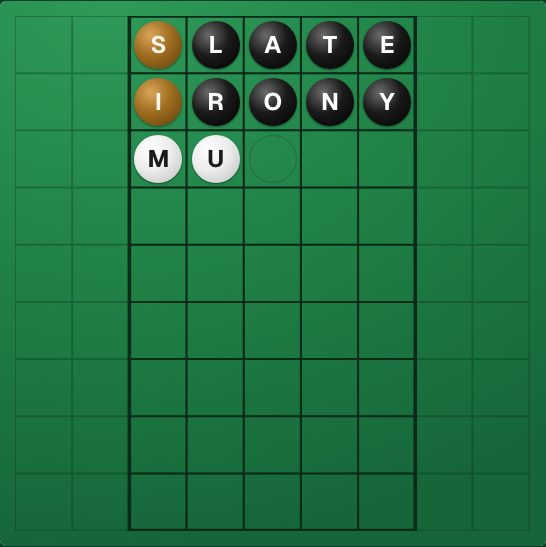
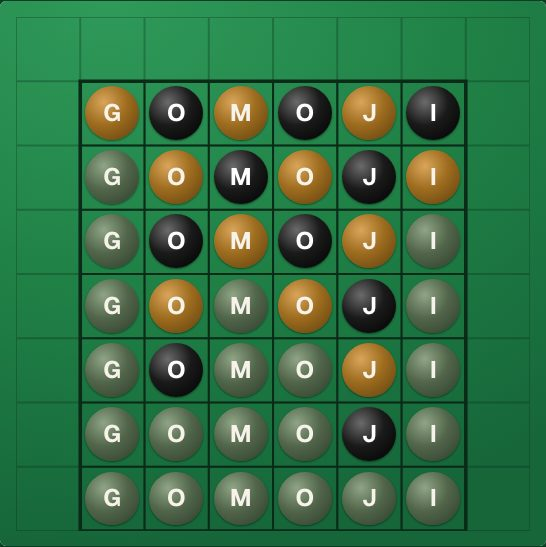
Gomoji's picture says GOMOJI on every row, going green a row at a time

diff --git a/e2e/puzzle-screenshots.spec.ts b/e2e/puzzle-screenshots.spec.ts
@@ -13,6 +13,7 @@ import { decodeMoreOrLess } from "../src/lib/puzzles/moreOrLess/code";
 import { decodeCells } from "../src/lib/puzzles/puzzleCode";
 import { decodeTowers } from "../src/lib/puzzles/towers/code";
 import { BLACK, decodeBlackAndWhite, EMPTY } from "../src/lib/puzzles/blackAndWhite/code";
+import { WORD_STONE_LOOK } from "../src/components/puzzles/puzzles.constants";
 import { answersFor } from "../src/lib/puzzles/gomoji/code";
 import { lettersOf } from "../src/lib/puzzles/kumimoji/grid";
 import { tileWords } from "../src/lib/puzzles/kumimoji/tileWords";
@@ -49,8 +50,9 @@ const SCENES: { kind: PuzzleKind; size: number; level: PuzzleLevel; seed: number
   { kind: "towers", size: 5, level: "medium", seed: 20260924, fill: 3 },
   // An 8×8 Black and White a third filled: printed stones on their shaded cells, and the solver's beside them.
   { kind: "blackAndWhite", size: 8, level: "medium", seed: 20260924, fill: 3 },
-  // A five-letter Gomoji two guesses in, with the word's first letters typed on the third row: the colours are the picture.
-  { kind: "gomoji", size: 5, level: "easy", seed: 20260924, fill: 2 },
+  // Gomoji's own picture says its name on every row, G O M O J I, going green a row at a time until the last is all
+  // green. John, 2026-09-26: "Update the GOMOJI image to say GOMOJI a bunch of times." Played first, then relettered.
+  { kind: "gomoji", size: 6, level: "medium", seed: 20260924, fill: 0 },
   { kind: "gomojiKana", size: 4, level: "easy", seed: 20260925, fill: 2 },
   // Gomoji Mot and Gomoji Wort: the same shape of picture, French's and German's own words.
   { kind: "gomojiMot", size: 5, level: "easy", seed: 20260925, fill: 2 },
@@ -126,9 +128,42 @@ test.describe("puzzle screenshots", () => {
           await cells.nth(row * scene.size + col).click();
           await cells.nth(row * scene.size + col).click();
         }
-      } else if (scene.kind === "gomoji" || scene.kind === "gomojiMot") {
+      } else if (scene.kind === "gomoji") {
+        /*
+         * Every row played as a person plays it, so every place holds a real stone
+         * drawn by the grid itself — then each stone is relettered GOMOJI and
+         * given the look of the mark its row's story needs. Only the letters and
+         * the colours change: the board, the stones and their sizes are the game's.
+         */
+        const rows = await page.locator('[data-testid="word-tile"][data-row]').evaluateAll((tiles) => new Set(tiles.map((tile) => tile.getAttribute("data-row"))).size);
+        const fillers = answersFor(scene.size, false).filter((word) => word !== puzzle.solution);
+        for (const guess of fillers.slice(0, rows - 1)) {
+          await page.keyboard.type(guess);
+          await page.keyboard.press("Enter");
+          filled += 1;
+        }
+        await page.keyboard.type(fillers[rows - 1]!);
+        await expect(page.locator('[data-testid="word-tile"] span')).toHaveCount(rows * scene.size);
+        await page.evaluate(
+          ({ looks, rows }) => {
+            const name = "GOMOJI";
+            // The order places turn green in, so the greens gather from both ends rather than in a line.
+            const greenOrder = [0, 5, 2, 3, 1, 4];
+            for (const tile of document.querySelectorAll<HTMLElement>('[data-testid="word-tile"]')) {
+              const row = Number(tile.dataset.row);
+              const at = [...tile.parentElement!.children].filter((each) => (each as HTMLElement).dataset.row === tile.dataset.row).indexOf(tile);
+              const greens = Math.round((name.length * row) / (rows - 1));
+              const mark = greenOrder.indexOf(at) < greens ? "hit" : (row + at) % 2 === 0 ? "near" : "miss";
+              const stone = tile.querySelector("span")!;
+              stone.textContent = name[at]!.toLowerCase();
+              Object.assign(stone.style, looks[mark]);
+            }
+          },
+          { looks: WORD_STONE_LOOK, rows },
+        );
+      } else if (scene.kind === "gomojiMot") {
         // Two words that are not the answer, then the answer's first letters, typed as a person types them.
-        const fillers = scene.kind === "gomojiMot" ? ["porte", "table"] : ["slate", "irony"];
+        const fillers = ["porte", "table"];
         for (const guess of fillers.filter((word) => word !== puzzle.solution).slice(0, scene.fill)) {
           await page.keyboard.type(guess);
           await page.keyboard.press("Enter");

diff --git a/src/lib/puzzles/puzzleArt.data.ts b/src/lib/puzzles/puzzleArt.data.ts
@@ -7,4 +7,4 @@
  *
  *   pnpm screenshots:puzzles
  */
-export const PUZZLE_ART_FINGERPRINT = "581dc4a810c35cc6";
+export const PUZZLE_ART_FINGERPRINT = "f283a8628cfb619d";
